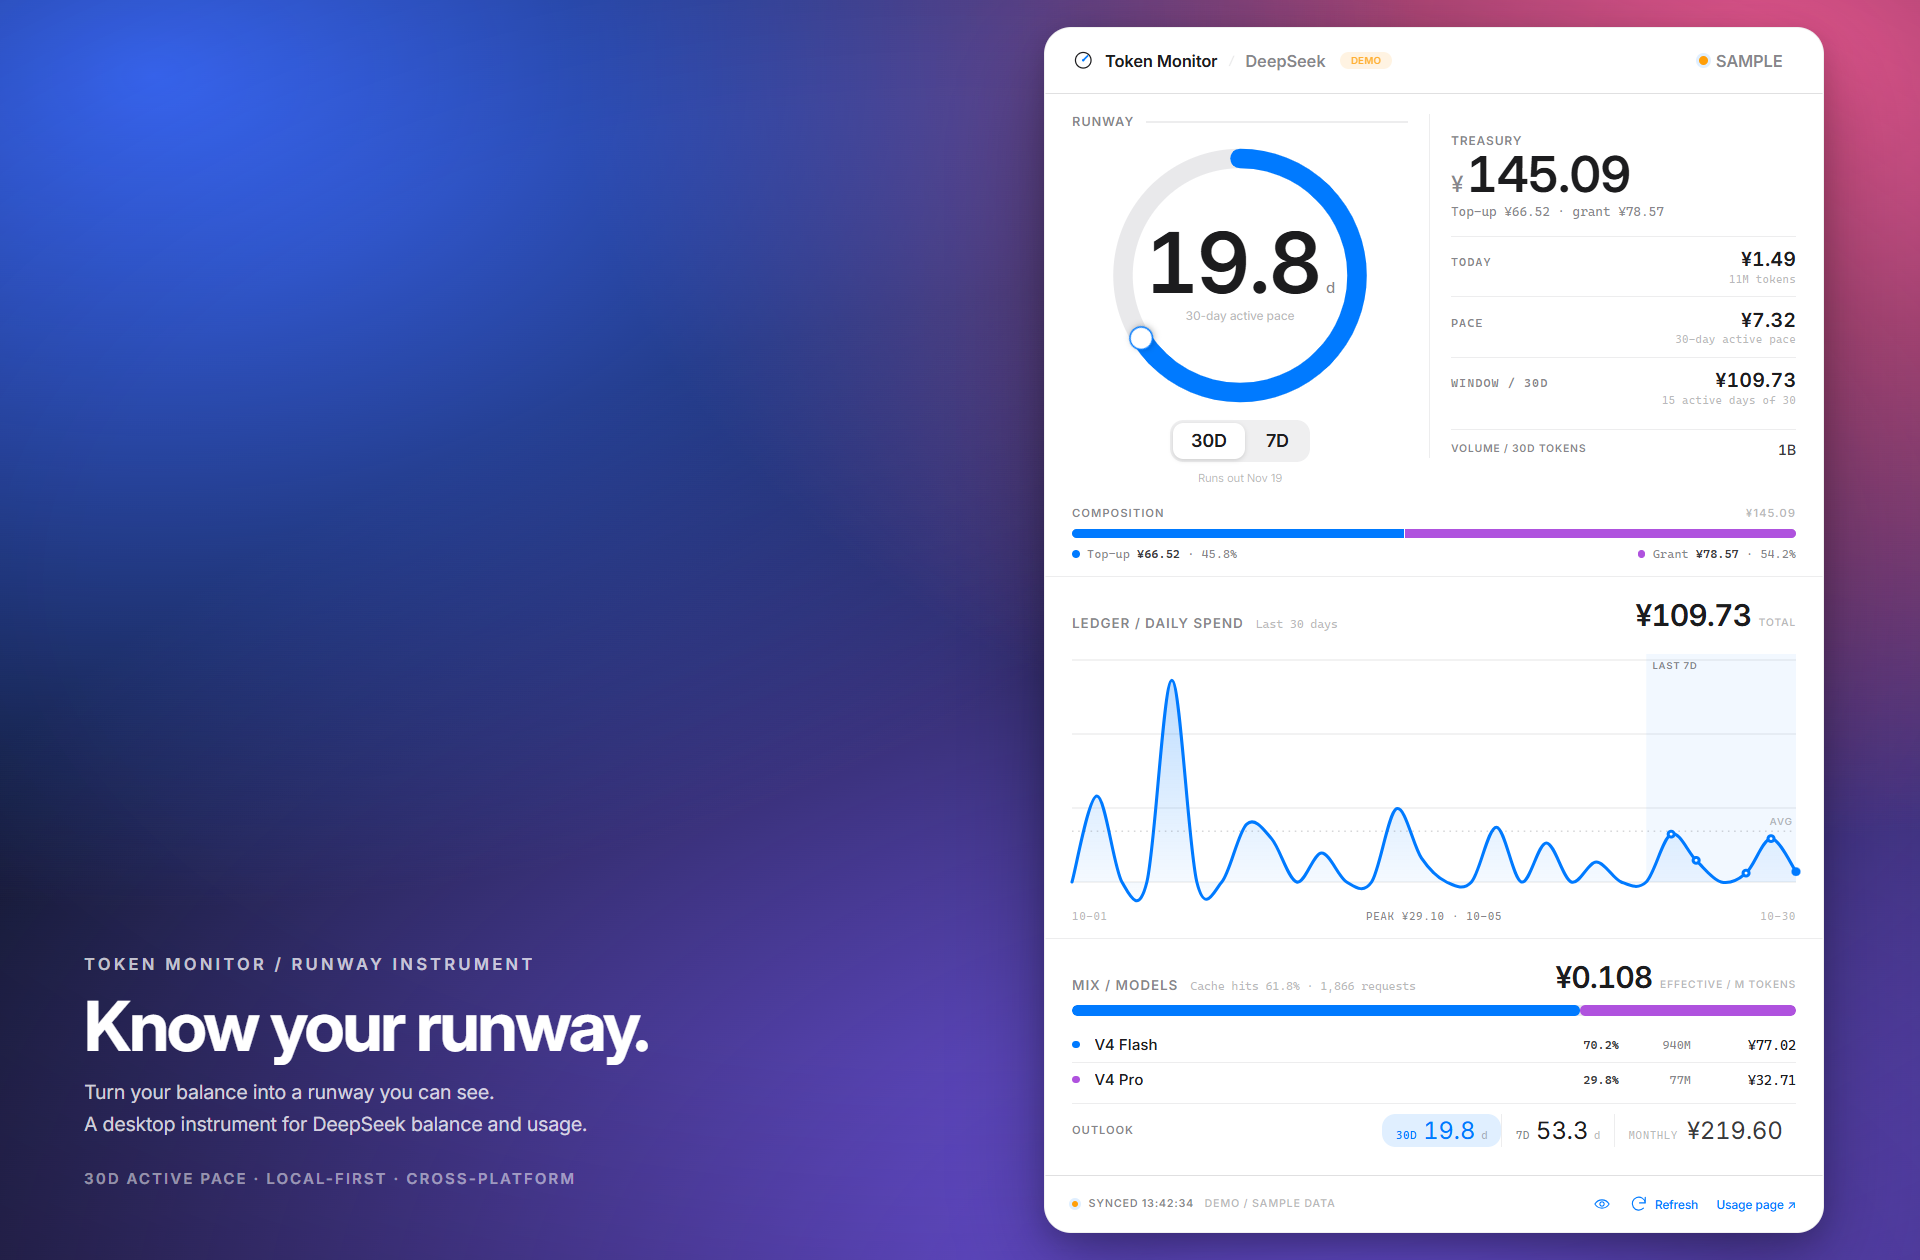
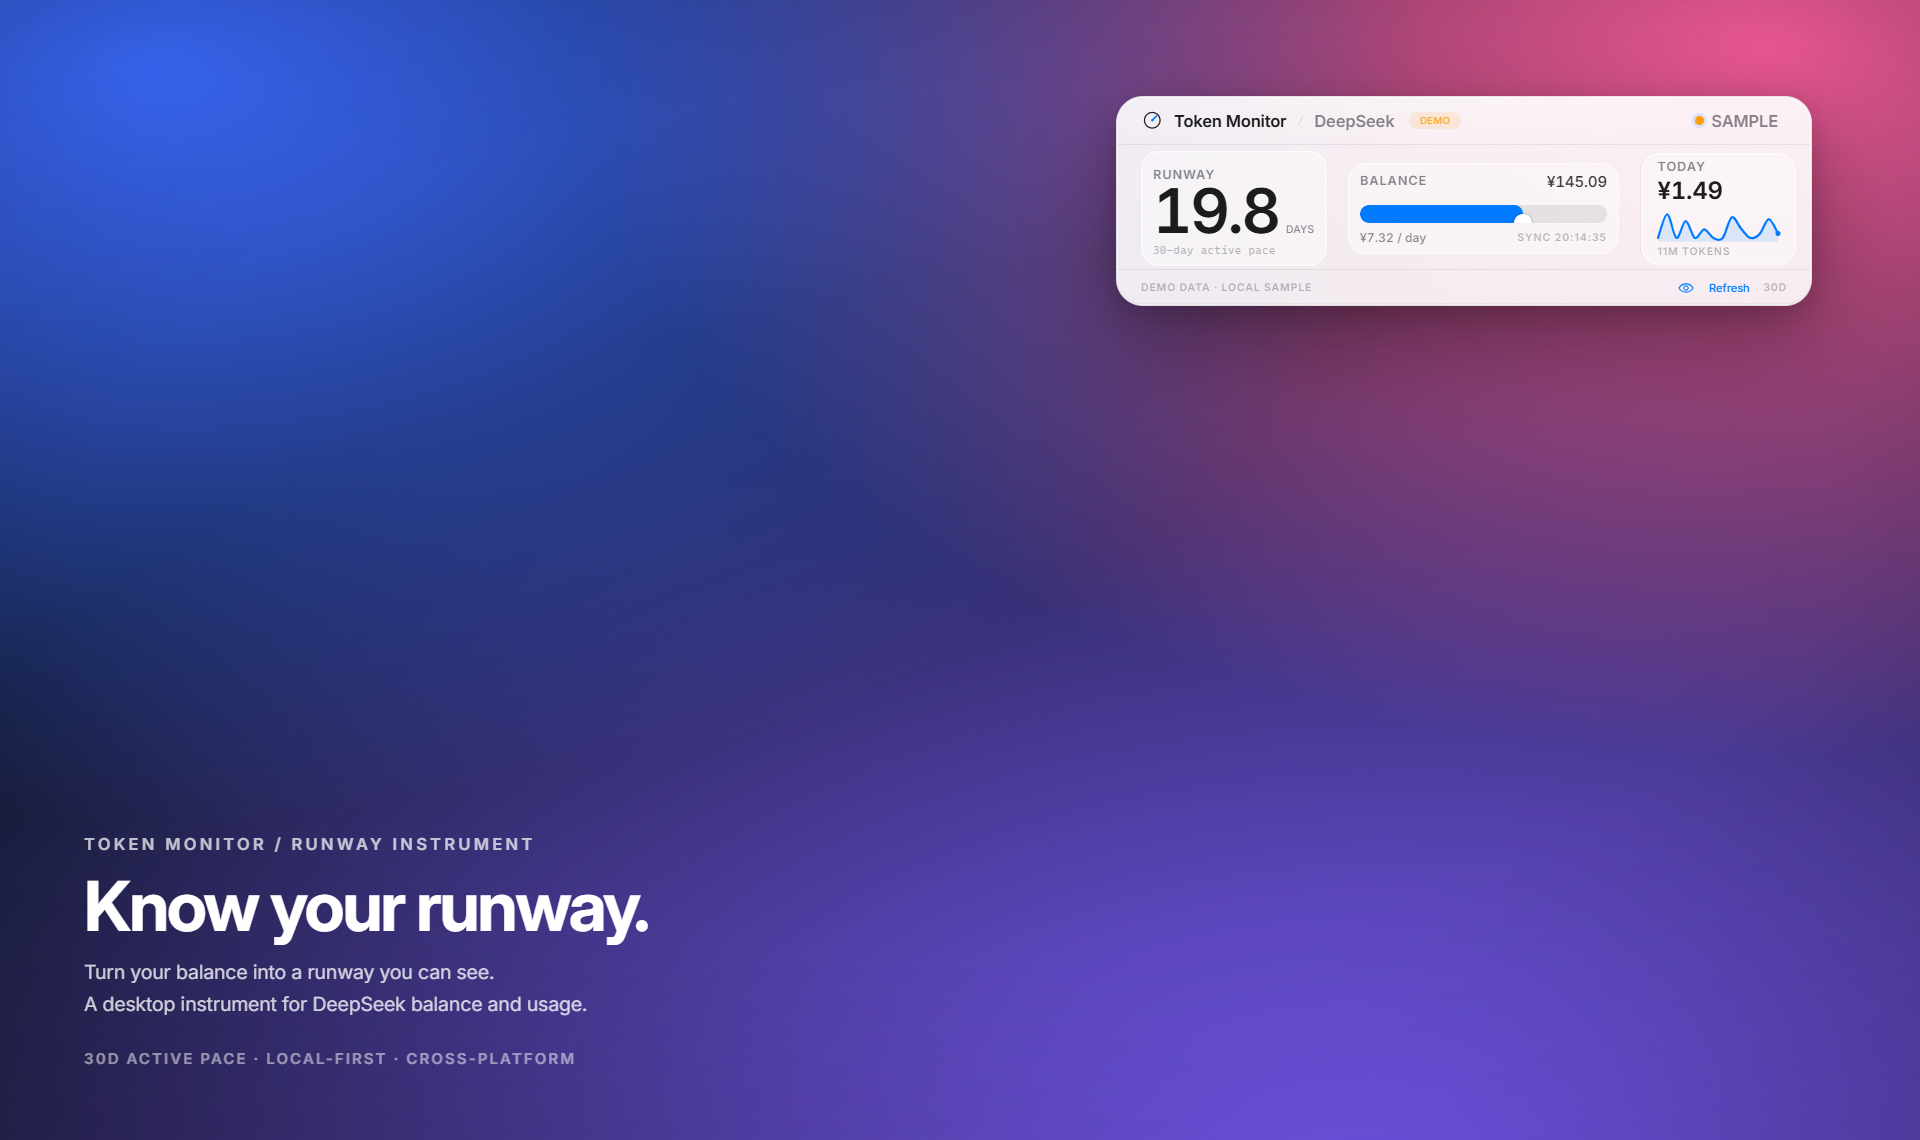
Give the window back to the card, and keep every label on its sheet
Three reports from the running app, one geometry.

The small form was 40px narrower than the ledger. During a morph the page was
laid out at the union width, then the window came down onto the 536px strip and
re-flowed its columns in the last frame — the jitter at the end. Both forms now
share FORM_WIDTH; the morph is a vertical reveal. The strip got the room it was
missing: runway 124, today 104, gap 14, and an equal-width assertion in the UI
check (window and panel width spread must stay at 0, measured 0).

The second-level sheets added in 2.7.1 are the reader's box, and the text was
flush to their rounded edges: micro labels sat on the 12px corner curve and a
large today figure could spill past the sheet by up to eight pixels, because the
fit wall was still the expand button 13px beyond it. Sheets are now explicit fit
walls (`data-fit-wall`, shared with the checks), runway and gauge sheets carry
6/8px of inner air, and the `999+` runway cap drops one size so the DAYS unit
stays on its surface. Demo, long amounts, long model ids and five languages all
probe clean; the number and language suites agree.

The transparent 36px stage around the card was capturing clicks meant for the
desktop. The renderer now reports whether the pointer is inside the panel; main
makes the window click-through while it is not (`setIgnoreMouseEvents` with
forward on Windows/macOS, a guarded cursor poll on Linux where forwarding does
[…]

diff --git a/main.js b/main.js
@@ -49,14 +49,29 @@ const IS_SHOT = Boolean(SHOT_MODE)
 const USE_CONFIG_IN_SHOT = process.argv.includes('--use-config')
 const FORCE_DARK = process.argv.includes('--dark') || SHOT_MODE === 'dark'
 
-// Window sizes include a 36px transparent margin on every side so the card
-// shadow lands outside the card (.stage padding in styles.css). The deck is
-// sized to its content: head 44 + scroll + foot 39 + 72 margin + 2 border.
-const STRIP_SIZE = { width: 536, height: 212 }
-const DECK_SIZE = { width: 576, height: 880 }
+// The window is the card plus a small shadow envelope. It used to be 36px on
+// every side, which left a large invisible input area around the card; the
+// shadow now fits in 5px and the window hugs the card. The card itself sits 48px
+// from the work area's top/right edge as before, so shrinking the envelope moves
+// the window edge in, not the card. The deck is sized to its content: head 44 +
+// scroll + foot 39 + 10 margin + 2 border. Both forms share one width: the
+// strip used to be 40px narrower, so a morph resized the window horizontally as
+// well as vertically — and the strip's content, laid out at the union width
+// during the reveal, reflowed when the window came down onto it: a visible
+// jitter on the last frame. One width makes the morph a pure vertical reveal,
+// and gives the strip's fixed columns the room their labels were squeezing into.
+const STAGE_GUTTER = 5
+const CARD_INSET = 48
+const FORM_WIDTH = 514
+const STRIP_SIZE = { width: FORM_WIDTH, height: 150 }
+const DECK_SIZE = { width: FORM_WIDTH, height: 818 }
 
 let mainWindow = null
 let tray = null
+// `.stage` pads the card by STAGE_GUTTER on every side (renderer/styles.css);
+// those pixels are transparent stage, not card. Kept in one place because the
+// click-through guard below has to know where the card actually is.
+let mouseThroughPoll = null
 let showcase = IS_SHOWCASE_ARG || IS_SHOT
 let currentView = 'strip'
 let uiReady = false
@@ -110,8 +125,10 @@ function initialBounds(view) {
   const { workArea } = screen.getDisplayNearestPoint(screen.getCursorScreenPoint())
   const size = fitSize(view, workArea)
   return anchoredBounds(size, {
-    right: workArea.x + workArea.width - 12,
-    top: workArea.y + 12,
+    // Keep the card at CARD_INSET from the screen edge: the window edge moves
+    // in by the space the old 36px envelope used to take.
+    right: workArea.x + workArea.width - (CARD_INSET - STAGE_GUTTER),
+    top: workArea.y + (CARD_INSET - STAGE_GUTTER),
     workArea
   })
 }
@@ -260,10 +277,48 @@ function trayImage() {
   return image
 }
 
+// The card is a rounded rectangle inside a rectangular window. While the
+// pointer is over the transparent stage the window ignores the mouse, so a
+// click lands on whatever is behind it instead of on nothing. `forward` lets
+// the page see moves returning over the card on Windows and macOS; Linux has
+// no forwarding, so a guarded poll takes the window back when the real cursor
+// is inside the card. The poll only runs while the window is ignoring.
+function setMouseThrough(through) {
+  if (!mainWindow || mainWindow.isDestroyed()) return
+  mainWindow.setIgnoreMouseEvents(Boolean(through), { forward: true })
+  if (mouseThroughPoll) {
+    clearInterval(mouseThroughPoll)
+    mouseThroughPoll = null
+  }
+  if (!through) return
+  // Windows and macOS forward mouse moves to the page, which reports the return
+  // itself; a persistent timer there would only cost a desktop widget battery.
+  // Linux has no forwarding, so the guard is the only way back.
+  if (process.platform !== 'linux') return
+  mouseThroughPoll = setInterval(() => {
+    if (!mainWindow || mainWindow.isDestroyed()) {
+      clearInterval(mouseThroughPoll)
+      mouseThroughPoll = null
+      return
+    }
+    const point = screen.getCursorScreenPoint()
+    const box = mainWindow.getBounds()
+    const inside = point.x >= box.x + STAGE_GUTTER && point.x <= box.x + box.width - STAGE_GUTTER &&
+      point.y >= box.y + STAGE_GUTTER && point.y <= box.y + box.height - STAGE_GUTTER
+    if (!inside) return
+    clearInterval(mouseThroughPoll)
+    mouseThroughPoll = null
+    mainWindow.setIgnoreMouseEvents(false)
+  }, 150)
+}
+
 function revealWindow() {
   if (!mainWindow) return
   if (mainWindow.isMinimized()) mainWindow.restore()
   mainWindow.show()
+  // A hidden window keeps neither the pointer nor the last click-through
+  // decision; it is shown answering input until the renderer says otherwise.
+  setMouseThrough(false)
   mainWindow.focus()
 }
 
@@ -404,6 +459,13 @@ function createWindow() {
     }
   })
 
+  // Windows hands back a freshly constructed transparent window 4px wider and
+  // taller than requested (at 150% scaling the client measured 518x154 for a
+  // 514x150 request), while a bounds write lands exactly. Both forms must share
+  // one width and the card must keep its CARD_INSET, so the layout is applied
+  // once more before the window is shown.
+  mainWindow.setBounds(layout)
+
   const query = rendererQuery()
   mainWindow.loadFile(path.join(__dirname, 'renderer', 'index.html'), { query })
 
@@ -414,6 +476,9 @@ function createWindow() {
     } else {
       mainWindow.showInactive()
     }
+    // A window shown under the cursor must answer that cursor even if no move
+    // arrives first; the gutter becomes click-through only on the next report.
+    setMouseThrough(false)
     if (config.alwaysOnTop && !showcase) applyAlwaysOnTop(true)
   })
 
@@ -682,6 +747,15 @@ function registerIpc() {
     return theme
   })
 
+  // Only the card has pixels; everything outside its rounded box is transparent
+  // stage. A transparent Electron window still receives mouse input over those
+  // pixels, so the renderer reports when the pointer is in the gutter and the
+  // window becomes click-through until it returns. `forward` keeps mouse moves
+  // arriving, which is what lets the page notice the return.
+  ipcMain.on('window:mouse-through', (event, through) => {
+    if (!mainWindow || event.sender !== mainWindow.webContents) return
+    setMouseThrough(Boolean(through))
+  })
   ipcMain.on('window:minimize', () => mainWindow?.minimize())
   ipcMain.on('window:close', () => mainWindow?.close())
   ipcMain.on('app:quit', () => app.quit())
@@ -706,6 +780,7 @@ if (!gotLock) {
     if (mainWindow) {
       if (mainWindow.isMinimized()) mainWindow.restore()
       mainWindow.show()
+      setMouseThrough(false)
       mainWindow.webContents.send('view:changed', currentView)
     }
   })

diff --git a/renderer/app.js b/renderer/app.js
@@ -312,10 +312,16 @@ function applyTheme(mode) {
 function setRunwayType(node, value, base, compact = false) {
   if (!node) return
   const text = String(value ?? '')
+  // "999+" is the cap marker, not a measurement, and it is four characters —
+  // the length ladder treated it like "19.8" and left it at the base size. At
+  // the base size the number plus its DAYS unit ran 7px past the runway's own
+  // sheet on every language at the eight-figure fixture. The cap gets one step
+  // down so the unit stays on the surface with it.
+  const capped = text.endsWith('+')
   if (compact) {
-    node.style.fontSize = text.length > 5 ? '29px' : text.length > 4 ? '35px' : ''
+    node.style.fontSize = capped ? '35px' : text.length > 5 ? '29px' : text.length > 4 ? '35px' : ''
   } else {
-    node.style.fontSize = text.length > 5 ? '44px' : text.length > 4 ? '50px' : ''
+    node.style.fontSize = capped ? '44px' : text.length > 5 ? '44px' : text.length > 4 ? '50px' : ''
   }
 }
 
@@ -1441,7 +1447,7 @@ async function switchView(next, { persist = true } = {}) {
   panelEl.style.height = pin
   panelEl.style.minHeight = pin
   // The moving edge, now in the page. `--morph-show` is the band of stage that
-  // stays visible: the card plus the gutter around it (36px of padding on either
+  // stays visible: the card plus the gutter around it (the stage's padding on either
   // side, where the shadow lives). It is expressed against 100% rather than as a
   // hidden amount so that it means the same thing whatever the stage currently
   // is: while the window is still the small one the clip hides nothing and the
@@ -2086,6 +2092,35 @@ function bindEvents() {
 
   el.systemQuery?.addEventListener?.('change', () => {
     if (state.themeMode === 'system') applyTheme('system')
+  })
+
+  // The window is a rectangle around a rounded card; the stage gutter is
+  // transparent but still part of the window's hit area at the OS level, so a
+  // click there lands on nothing instead of reaching whatever is behind it.
+  // Report when the pointer is outside the panel and let main make the window
+  // click-through; forwarded moves bring the report back when it returns.
+  let mouseThrough = null
+  const reportPointer = (event) => {
+    const panel = el.panel
+    if (!panel) return
+    const box = panel.getBoundingClientRect()
+    const inside = event.clientX >= box.left && event.clientX <= box.right &&
+      event.clientY >= box.top && event.clientY <= box.bottom
+    if (mouseThrough === !inside) return
+    mouseThrough = !inside
+    document.documentElement.dataset.mouseThrough = mouseThrough ? '1' : '0'
+    bridge.mouseThrough?.(mouseThrough)
+  }
+  // pointermove is the modern event; the forwarded messages a click-through
+  // window receives are documented as mouse move messages, so listen for both
+  // and let the state check deduplicate them.
+  window.addEventListener('pointermove', reportPointer, { passive: true })
+  window.addEventListener('mousemove', reportPointer, { passive: true })
+  window.addEventListener('pointerleave', () => {
+    if (mouseThrough === true) return
+    mouseThrough = true
+    document.documentElement.dataset.mouseThrough = '1'
+    bridge.mouseThrough?.(true)
   })
 }
 

diff --git a/renderer/styles.css b/renderer/styles.css
@@ -52,7 +52,10 @@
   --vermilion-soft: rgba(255, 59, 48, 0.12);
   --panel-edge: rgba(0, 0, 0, 0.06);
   --panel-highlight: rgba(255, 255, 255, 0.9);
-  --shadow: 0 0 0 0.5px rgba(0, 0, 0, 0.05), 0 2px 4px rgba(0, 0, 0, 0.05), 0 6px 14px rgba(0, 0, 0, 0.09);
+  /* Tight enough to fit inside the 5px stage gutter: the old 14-20px blur was
+     what needed the 36px envelope, and a clipped blur would draw a hard edge at
+     the window. The rim, bloom and glass carry the depth now. */
+  --shadow: 0 0 0 0.5px rgba(0, 0, 0, 0.05), 0 1px 4px rgba(0, 0, 0, 0.08);
   /* Glass, and it has to be glass: the window is transparent and the desktop
      really is behind this card, so the card is a tint over it rather than a
      painted sheet. A milky gradient with full opacity — the previous pass —
@@ -98,7 +101,7 @@ body.theme-dark {
   --vermilion-soft: rgba(255, 69, 58, 0.2);
   --panel-edge: rgba(255, 255, 255, 0.08);
   --panel-highlight: rgba(255, 255, 255, 0.08);
-  --shadow: 0 0 0 0.5px rgba(255, 255, 255, 0.06), 0 2px 6px rgba(0, 0, 0, 0.35), 0 8px 16px rgba(0, 0, 0, 0.3);
+  --shadow: 0 0 0 0.5px rgba(255, 255, 255, 0.06), 0 1px 4px rgba(0, 0, 0, 0.5);
   /* The same glass, smoked. The sheet is a light film over the tint rather than
      a second colour, so the two levels stay visible over a dark wallpaper. */
   --glass-base: rgba(20, 20, 22, 0.88);
@@ -210,7 +213,11 @@ select,
 .stage {
   position: fixed;
   inset: 0;
-  padding: 36px;
+  /* The card's shadow envelope. It was 36px, which made the transparent window
+     a large invisible input area; 5px fits the shadow below and keeps the
+     window's rectangle close to the card. The card's screen position is held by
+     CARD_INSET in main.js, so shrinking this does not move the card. */
+  padding: 5px;
   display: flex;
 }
 
@@ -531,15 +538,20 @@ body.theme-dark .grain {
   min-height: 0;
   display: flex;
   align-items: center;
-  gap: 13px;
+  gap: 14px;
   padding: 5px 10px 3px 16px;
   cursor: pointer;
 }
 
 .strip-runway {
-  width: 108px;
+  width: 124px;
   flex: none;
   min-width: 0;
+  /* The sheet is the reader's box now, and its corners are rounded: text laid
+     out flush to a 12px curve reads as escaping the box even when nothing is
+     clipped. Six pixels of inner air clears the curve (6,6 is 8.5px from the
+     corner centre, inside a 12px radius) and keeps every label on the fill. */
+  padding: 6px 8px;
 }
 
 .runway-line {
@@ -576,7 +588,7 @@ body.theme-dark .grain {
 .strip-scale {
   flex: 1;
   min-width: 0;
-  padding-top: 1px;
+  padding: 6px 8px;
 }
 
 .scale-head,
@@ -685,7 +697,7 @@ body.theme-dark .grain {
 }
 
 .strip-today {
-  width: 90px;
+  width: 104px;
   flex: none;
   align-self: stretch;
   display: flex;

diff --git a/renderer/index.html b/renderer/index.html
@@ -63,7 +63,7 @@
         </header>
 
         <div class="strip-main" data-action="expand" role="button" tabindex="0" aria-label="展开账本">
-          <div class="strip-runway">
+          <div class="strip-runway" data-fit-wall>
             <span class="micro">RUNWAY / 预计可用</span>
             <div class="runway-line">
               <span class="runway-num serif" id="stripRunway">—</span>
@@ -72,7 +72,7 @@
             <span class="pace-caption" id="stripPaceCaption">按 30 天活跃日</span>
           </div>
 
-          <div class="strip-scale">
+          <div class="strip-scale" data-fit-wall>
             <div class="scale-head">
               <span class="micro">余额续航</span>
               <span class="scale-value mono" id="stripBalance">¥—</span>
@@ -88,7 +88,7 @@
             </div>
           </div>
 
-          <div class="strip-today">
+          <div class="strip-today" data-fit-wall>
             <span class="micro">TODAY / 今日</span>
             <span class="today-value mono" id="stripToday">¥—</span>
             <svg class="spark" id="stripSpark" viewBox="0 0 96 26" aria-hidden="true"></svg>
@@ -145,7 +145,7 @@
             <button class="text-btn" id="noticeAction" type="button">去设置</button>
           </div>
 
-          <section class="hero">
+          <section class="hero" data-fit-wall>
             <div class="gauge-block">
               <div class="section-eyebrow"><span class="micro">RUNWAY / 预计可用</span><span class="rule"></span></div>
               <div class="gauge" id="gauge">
@@ -201,7 +201,7 @@
             <div class="fuel-legend" id="fuelLegend"></div>
           </section>
 
-          <section class="chart-section">
+          <section class="chart-section" data-fit-wall>
             <div class="section-head">
               <div class="section-title"><span class="micro">LEDGER / 每日花费</span><span class="section-note">近 30 天</span></div>
               <div class="section-stat"><span class="serif" id="chartTotal">¥—</span><span class="micro">TOTAL</span></div>
@@ -222,7 +222,7 @@
             </div>
           </section>
 
-          <section class="mix-section">
+          <section class="mix-section" data-fit-wall>
             <div class="section-head">
               <div class="section-title"><span class="micro">MIX / 模型构成</span><span class="section-note" id="mixNote">近 30 天</span></div>
               <div class="section-stat"><span class="serif" id="mixEffective">—</span><span class="micro">EFFECTIVE / M TOKENS</span></div>

diff --git a/renderer/text-fit.js b/renderer/text-fit.js
@@ -67,6 +67,19 @@
         if (rect.left >= own.right - 1) stop = Math.min(stop, rect.left)
       }
     }
+    // A visible sheet is a wall for the text it carries. The second-level
+    // surfaces (the strip's three instruments, the deck's hero, chart and mix)
+    // are the reader's box now: ink spilling past their rounded edge reads as
+    // the label escaping its display box even when nothing behind it would be
+    // lost. Marked in the markup rather than by a class list here, so the rule
+    // stays a rule and the design owns which surfaces count.
+    for (let up = el.parentElement; up && up !== document.body; up = up.parentElement) {
+      if (!up.hasAttribute || !up.hasAttribute('data-fit-wall')) continue
+      const box = up.getBoundingClientRect()
+      const style = getComputedStyle(up)
+      stop = Math.min(stop, box.right - (parseFloat(style.paddingRight) || 0))
+      break
+    }
     return stop
   }
 

diff --git a/preload.js b/preload.js
@@ -16,6 +16,12 @@ contextBridge.exposeInMainWorld('tm', {
   settleView: () => ipcRenderer.invoke('window:morph-settle'),
   setPinned: (pinned) => ipcRenderer.invoke('window:pin', pinned),
   applyTheme: (theme) => ipcRenderer.invoke('theme:apply', theme),
+  // The window is a rectangle around a rounded card, and its 36px stage gutter
+  // is transparent. Transparent pixels still hit-test at the OS level, so the
+  // gutter would swallow clicks meant for whatever is behind it. The renderer
+  // says when the pointer is outside the card; main turns the whole window into
+  // a click-through surface while it is.
+  mouseThrough: (through) => ipcRenderer.send('window:mouse-through', Boolean(through)),
   minimize: () => ipcRenderer.send('window:minimize'),
   close: () => ipcRenderer.send('window:close'),
   quit: () => ipcRenderer.send('app:quit'),
